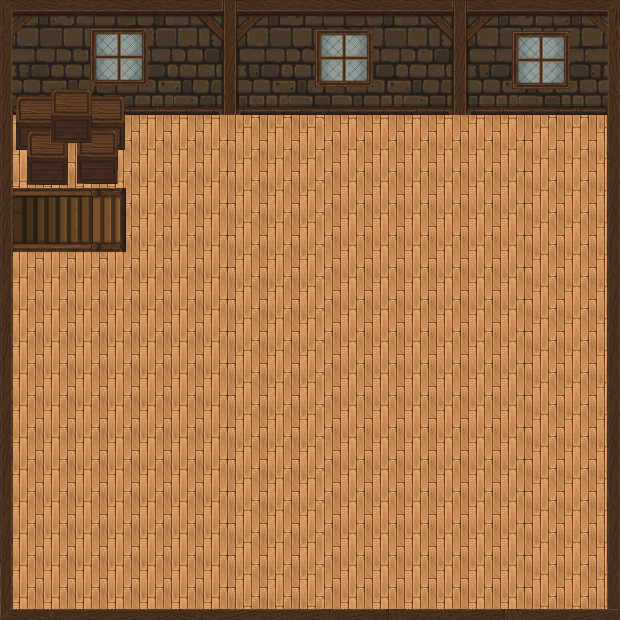
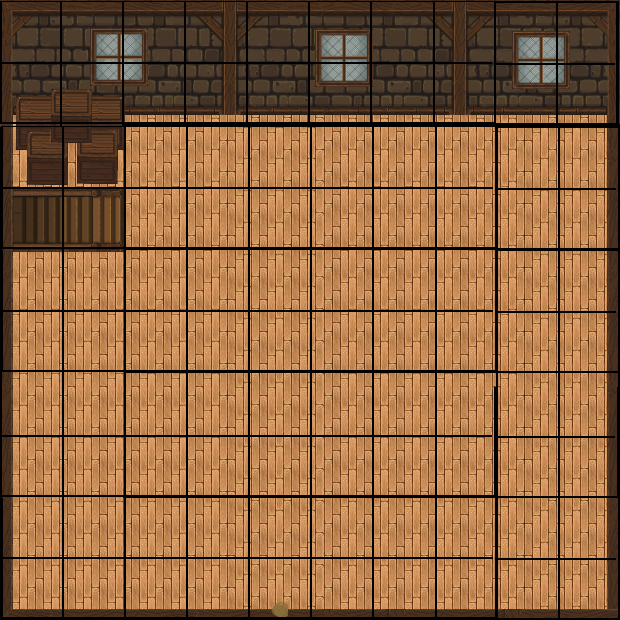
added cat patrol

Changed region(s): [[0.0, 0.0, 1.0, 1.0]]

diff --git a/src/js/folie11_script.js b/src/js/folie11_script.js
@@ -25,10 +25,29 @@
         }
     ];
 
+        // get root
+        var r = document.querySelector(':root');
+        var rs = getComputedStyle(r);
 
-    // get root
-    var r = document.querySelector(':root');
-    var rs = getComputedStyle(r);
+    // Square-Counter (Wo ist die Figur)
+    let place_counter_x = 5
+    let place_counter_y = 1
+
+    // get move_x
+    let move_x = rs.getPropertyValue('--move_x');
+    let run_x = 0;
+    move_x = move_x.replace("px", "");
+    let move_x_int = parseInt(move_x);
+    
+    
+
+    // get move_y
+    let move_y = rs.getPropertyValue('--move_y');
+    let run_y = 0;
+    move_y = move_y.replace("px", "");
+    move_y_int = parseInt(move_y);
+
+
 
     // inventory
 
@@ -51,8 +70,167 @@
     var grayscale_ticket = localStorage.getItem('grayscale_ticket');
     var grayscale_note = localStorage.getItem('grayscale_note');
 
+    // set map values
+    size_map = 620;
+    number_of_squares = 10;
+    let move_value = size_map / number_of_squares;
 
+    // cat patrol
 
+    let patrol_cat_x = 196;
+    let patrol_cat_y = 134;
+    let patrol_cat_max = 8;
+    let patrol_cat_start_x = 3;
+    let patrol_cat_start_y = 2;
+    r.style.setProperty('--cat_patrol_x', ((patrol_cat_start_x  *move_value)+15) + "px");
+    r.style.setProperty('--cat_patrol_y', ((patrol_cat_start_y  *move_value)+10) + "px");
+    let loopLength = 4;
+
+    async function patrolCatTop()
+    {
+        document.getElementById("patrol_cat").src = "src/images/patrolCat_right_standing.png";
+        for (let i = 0; i  <= loopLength; i++) 
+        {
+            if ((Math.abs(move_x - patrol_cat_x) <= 20) && (Math.abs(move_y - patrol_cat_y) <= 20))
+            {
+                console.log("kollision auf Top!");
+                console.log("Spieler: "+ (move_x_int) +" / "+(move_y_int)  +" Katze: "+patrol_cat_x+" / "+patrol_cat_y);
+                break;
+            }
+            else
+            {
+                console.log("durchlauf: " + i +" x: "+ patrol_cat_x+" y: "+ patrol_cat_y);
+                patrol_cat_x = 15+ ((patrol_cat_start_x+(i)) * (move_value) + (move_value / 3 * 1));
+                r.style.setProperty('--cat_patrol_x', patrol_cat_x + "px");
+                await delay(75);
+                document.getElementById("patrol_cat").src = "src/images/patrolCat_right_moving.png";
+                patrol_cat_x = 15+ ((patrol_cat_start_x+(i)) * (move_value) + (move_value / 3 * 2));
+                r.style.setProperty('--cat_patrol_x', patrol_cat_x + "px");
+                await delay(75);
+                document.getElementById("patrol_cat").src = "src/images/patrolCat_right_standing.png";
+                patrol_cat_x = 15+ ((patrol_cat_start_x+(i)) * (move_value) + (move_value / 3 * 3));
+                r.style.setProperty('--cat_patrol_x', patrol_cat_x + "px");
+    
+                if (i == (loopLength)) 
+                    {
+                    console.log("letzter Durchlauf auf Top");
+                    patrolCatRight();
+                    }
+
+            }      
+        }
+    }
+
+    async function patrolCatRight()
+    {
+        document.getElementById("patrol_cat").src = "src/images/patrolCat_front_standing.png";
+        for (let i = 0; i  <= (loopLength+1); i++) 
+        {
+            if ((Math.abs(move_x - patrol_cat_x) <= 20) && (Math.abs(move_y - patrol_cat_y) <= 20))
+            {
+                console.log("kollision auf rechts!");
+                console.log("Spieler: "+ (move_x-move_value) +" / "+(move_y-move_value)  +" Katze: "+patrol_cat_x+" / "+patrol_cat_y);
+                break;
+            }
+            else
+            {
+                console.log("durchlauf: " + i +" x: "+ patrol_cat_x+" y: "+ patrol_cat_y);
+                patrol_cat_y = 10+ ((patrol_cat_start_y+(i)) * (move_value) + (move_value / 3 * 1));
+                r.style.setProperty('--cat_patrol_y', patrol_cat_y + "px");
+                await delay(75);
+                document.getElementById("patrol_cat").src = "src/images/patrolCat_front_moving.png";
+                patrol_cat_y = 10+ ((patrol_cat_start_y+(i)) * (move_value) + (move_value / 3 * 2));
+                r.style.setProperty('--cat_patrol_y', patrol_cat_y + "px");
+                await delay(75);
+                document.getElementById("patrol_cat").src = "src/images/patrolCat_front_standing.png";
+                patrol_cat_y = 10+ ((patrol_cat_start_y+(i)) * (move_value) + (move_value / 3 * 3));
+                r.style.setProperty('--cat_patrol_y', patrol_cat_y + "px");
+    
+                if (i == (loopLength+1)) 
+                    {
+                    console.log("durchlauf: " + i +" x: "+ patrol_cat_x+" y: "+ patrol_cat_y);
+                    console.log("letzter Durchlauf rechts");
+                    patrolCatBottom();
+                    }
+
+            }                
+        }
+    }
+
+    async function patrolCatBottom()
+    {
+        document.getElementById("patrol_cat").src = "src/images/patrolCat_left_standing.png";
+        for (let i = 0; i  <= loopLength; i++) 
+        {
+            if ((Math.abs(move_x - patrol_cat_x) <= 20) && (Math.abs(move_y - patrol_cat_y) <= 20))
+            {
+                console.log("kollision auf Bottom!");
+                console.log("Spieler: "+ (move_x-move_value) +" / "+(move_y-move_value)  +" Katze: "+patrol_cat_x+" / "+patrol_cat_y);
+                break;
+            }
+            else
+            {
+                console.log("durchlauf: " + i +" x: "+ patrol_cat_x+" y: "+ patrol_cat_y);
+                patrol_cat_x = 10+ ((patrol_cat_start_x+(5-i)) * (move_value) - (move_value / 3 * 1));
+                r.style.setProperty('--cat_patrol_x', patrol_cat_x + "px");
+                await delay(75);
+                document.getElementById("patrol_cat").src = "src/images/patrolCat_left_moving.png";
+                patrol_cat_x = 10+ ((patrol_cat_start_x+(5-i)) * (move_value) - (move_value / 3 * 2));
+                r.style.setProperty('--cat_patrol_x', patrol_cat_x + "px");
+                await delay(75);
+                document.getElementById("patrol_cat").src = "src/images/patrolCat_left_standing.png";
+                patrol_cat_x = 10+ ((patrol_cat_start_x+(5-i)) * (move_value) - (move_value / 3 * 3));
+                r.style.setProperty('--cat_patrol_x', patrol_cat_x + "px");
+    
+                if (i == (loopLength)) 
+                    {
+                    console.log("durchlauf: " + i +" x: "+ patrol_cat_x+" y: "+ patrol_cat_y);
+                    console.log("letzter Durchlauf auf Bottom");
+                    patrolCatLeft();
+                    }
+
+            }          
+        }
+    }
+
+    async function patrolCatLeft()
+    {
+        document.getElementById("patrol_cat").src = "src/images/patrolCat_back_standing.png";
+        for (let i = 0; i  <= (loopLength+1); i++) 
+        {
+            if ((Math.abs(move_x - patrol_cat_x) <= 20) && (Math.abs(move_y - patrol_cat_y) <= 20))
+            {
+                console.log("kollision auf Links!");
+                console.log("Spieler: "+ (move_x-move_value) +" / "+(move_y-move_value)  +" Katze: "+patrol_cat_x+" / "+patrol_cat_y);
+                break;
+            }
+            else
+            {
+                console.log("durchlauf: " + i +" x: "+ patrol_cat_x+" y: "+ patrol_cat_y);
+                patrol_cat_y = 10+ ((patrol_cat_start_y+(6-i)) * (move_value) - (move_value / 3 * 1));
+                r.style.setProperty('--cat_patrol_y', patrol_cat_y + "px");
+                
+                await delay(75);
+                document.getElementById("patrol_cat").src = "src/images/patrolCat_back_moving.png";
+                patrol_cat_y = 10+ ((patrol_cat_start_y+(6-i)) * (move_value) - (move_value / 3 * 2));
+                r.style.setProperty('--cat_patrol_y', patrol_cat_y + "px");
+                await delay(75);
+                document.getElementById("patrol_cat").src = "src/images/patrolCat_back_standing.png";
+                patrol_cat_y = 10+ ((patrol_cat_start_y+(6-i)) * (move_value) - (move_value / 3 * 3));
+                r.style.setProperty('--cat_patrol_y', patrol_cat_y + "px");
+                if (i == (loopLength+1)) 
+                    {
+                    console.log("durchlauf: " + i +" x: "+ patrol_cat_x+" y: "+ patrol_cat_y);
+                    console.log("letzter Durchlauf Links");
+                    patrolCatTop();
+                    }  
+
+            }        
+        }
+        
+    }
+
+    patrolCatTop();
 
  function checkInventory()
  { 
@@ -135,22 +313,7 @@
 }
 checkInventory();
 
-    // get move_x
-    let move_x = rs.getPropertyValue('--move_x');
-    let run_x = 0;
-    move_x = move_x.replace("px", "");
-    let move_x_int = parseInt(move_x);
 
-    // set map values
-    size_map = 620;
-    number_of_squares = 10;
-    move_value = size_map / number_of_squares;
-
-    // get move_y
-    let move_y = rs.getPropertyValue('--move_y');
-    let run_y = 0;
-    move_y = move_y.replace("px", "");
-    move_y_int = parseInt(move_y);
 
     // set counters for Arrow Keys
     let counter_arrow_up = 0;
@@ -158,9 +321,7 @@ checkInventory();
     let counter_arrow_left = 0;
     let counter_arrow_right = 0;
 
-    // Square-Counter (Wo ist die Figur)
-    let place_counter_x = 5
-    let place_counter_y = 1
+
 
     // delay for set time for movement animation
     let delay_duration = 50;

diff --git a/kreischcraft11.html b/kreischcraft11.html
@@ -15,6 +15,7 @@
             <div class="one_row">
                 <img src="src/images/folie16.png" class="border_radius_15">
                 <img src="src/images/cat_front_standing_black.png" class="figur" id="player_img">
+                <img src="src/images/patrolCat_right_standing.png" class="patrol_cat" id="patrol_cat">
                 <img src="src/images/geld.png" class="geld">
                 <img src="src/images/Karotte.png" class="karotte">
                 <img src="src/images/Fisch.png" class="fisch">

diff --git a/src/css/kreisch_folie11.css b/src/css/kreisch_folie11.css
@@ -3,6 +3,9 @@
   --move_x:15px;
   --move_y:10px;
 
+  --cat_patrol_x:15px;
+  --cat_patrol_y:10px;
+
 
   --opacity_sprechblase6:1;
   --opacity_sprechblase7:0;
@@ -38,6 +41,14 @@ width: 62px;
 position:absolute;   
 left:var(--move_x);
 top:var(--move_y);
+}
+.patrol_cat
+{
+	height: 62px;
+	width: 62px;
+	position:absolute;   
+	left:var(--cat_patrol_x);
+	top:var(--cat_patrol_y);
 }
 .geld
 {
